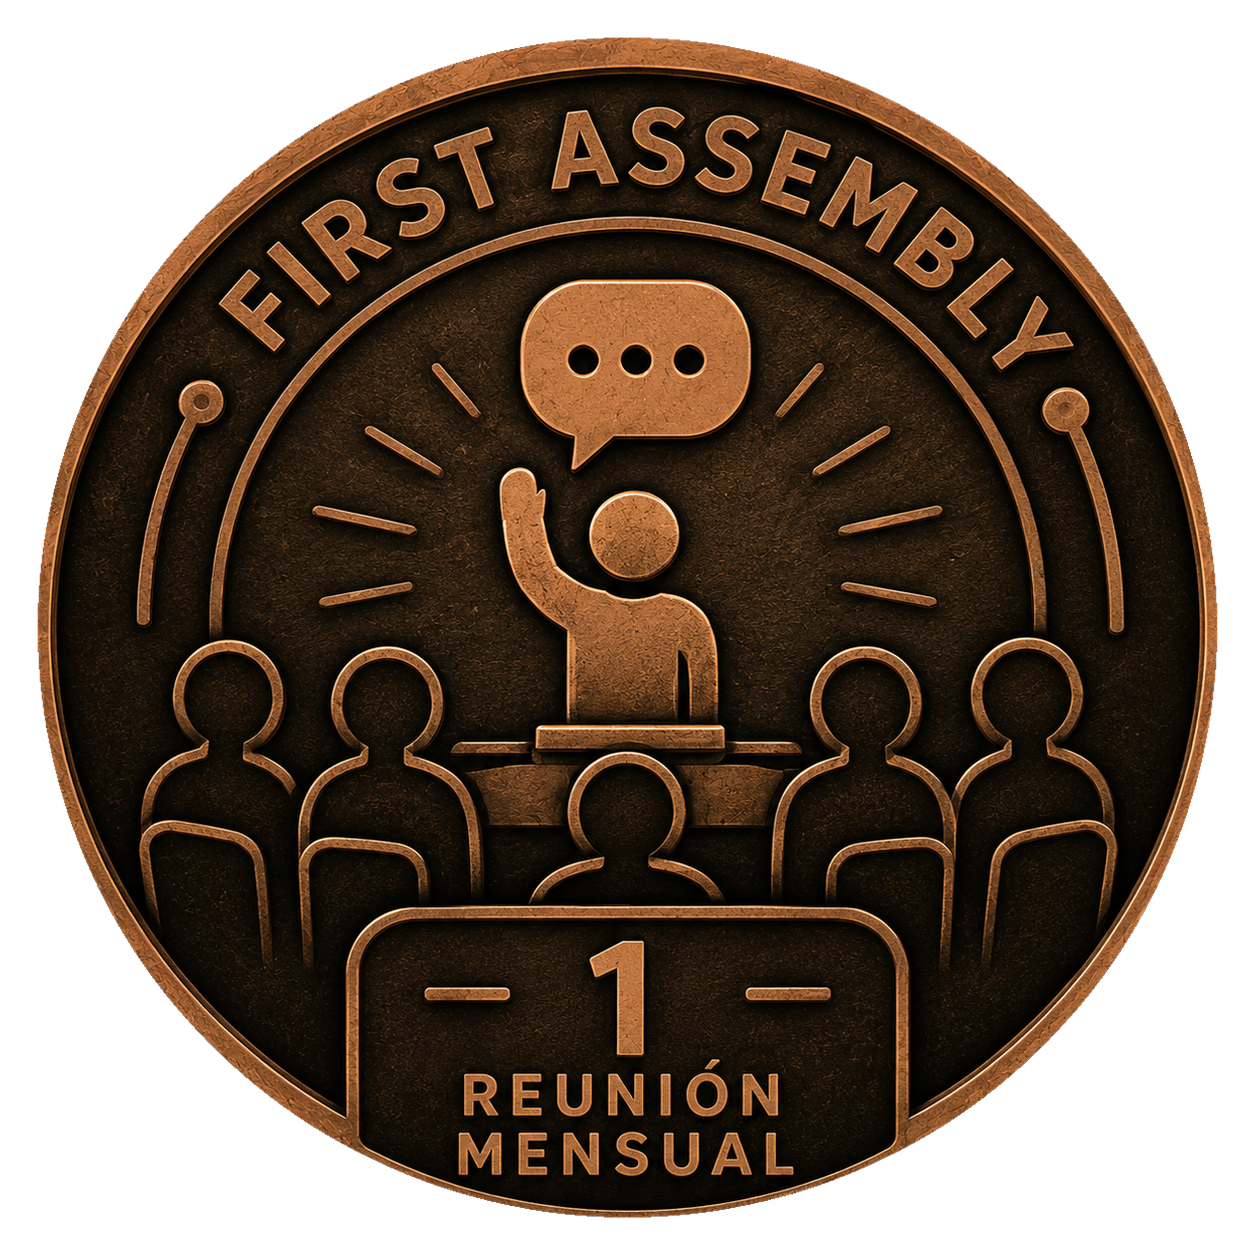
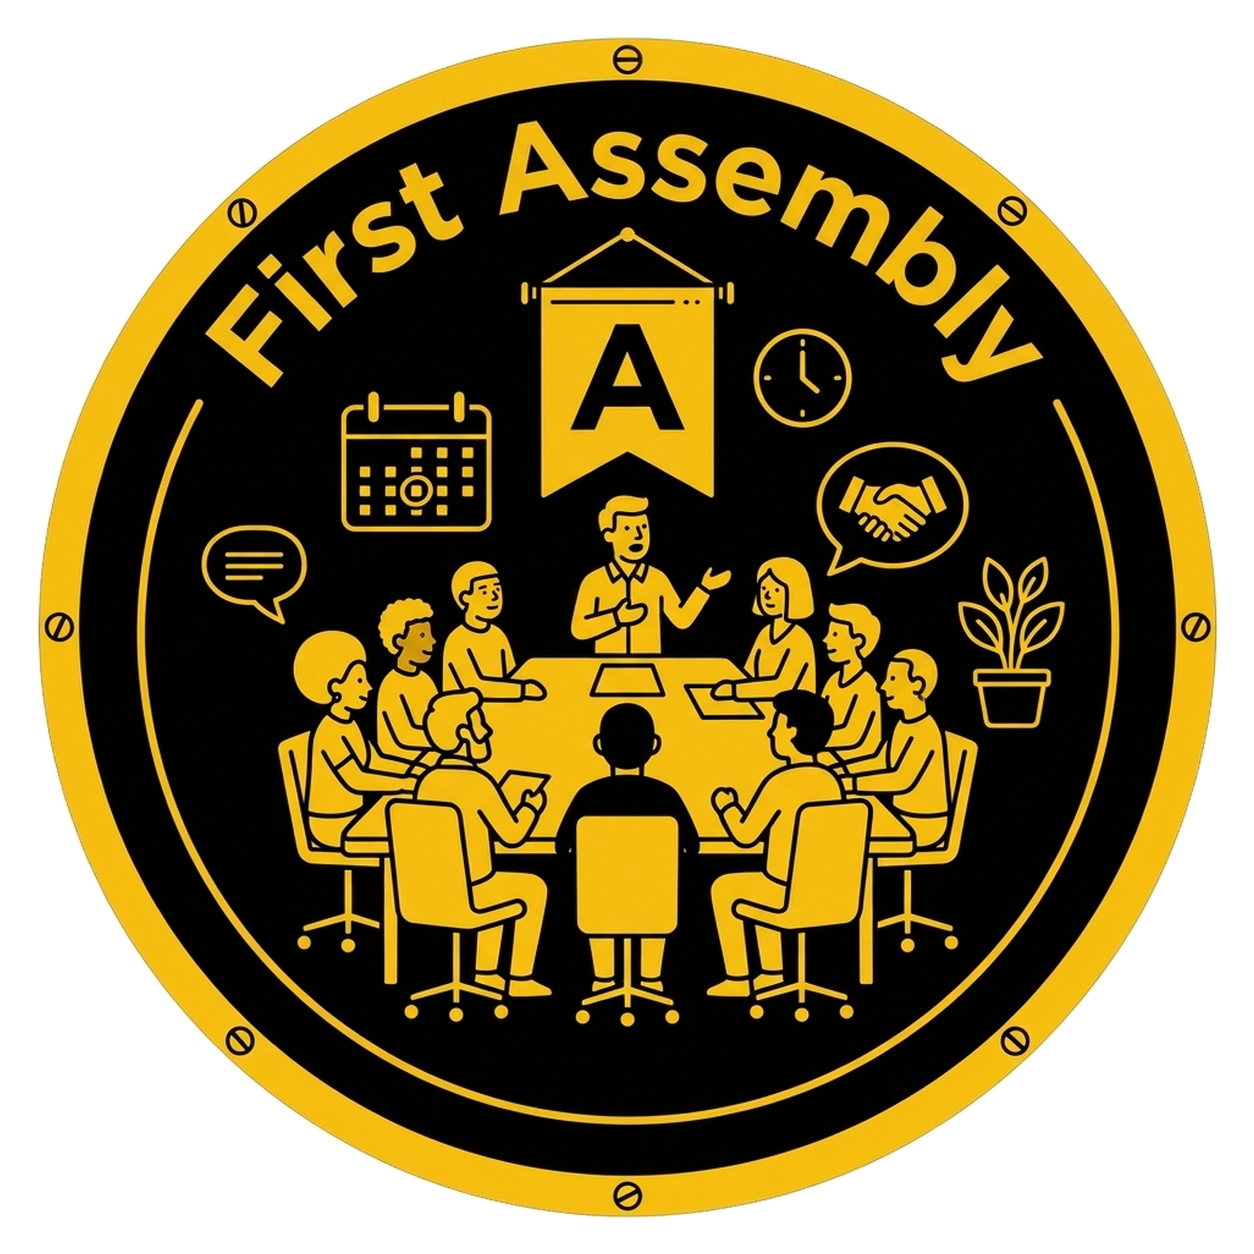
feat: imágenes promocionadas del 11-jul (eventos primer-paso/embajador, show-and-tell) + first-assembly retocada + regen docs

diff --git a/README.md b/README.md
@@ -21,7 +21,7 @@ URL base del catálogo en el portal: `https://cdn.jsdelivr.net/gh/makespacemadri
 <!-- badgegen:tables:start -->
 ## Catálogo de badges
 
-_Generado por `badgegen docs` desde `badges.yaml` (82 badges activos, 22 sin imagen)._
+_Generado por `badgegen docs` desde `badges.yaml` (82 badges activos, 19 sin imagen)._
 
 ### Onboarding
 
@@ -79,7 +79,7 @@ _Generado por `badgegen docs` desde `badges.yaml` (82 badges activos, 22 sin ima
 | `badge-platform-maker` | Platform Builder | `badge-platform-maker.png` | ✅ |
 | `badge-procurer` | Procurer | `badge-procurer.png` | ✅ |
 | `badge-serial-spender` | Serial Spender | `badge-serial-spender.png` | ✅ |
-| `badge-show-and-tell` | Show & Tell | `badge-show-and-tell.png` | ❌ pendiente |
+| `badge-show-and-tell` | Show & Tell | `badge-show-and-tell.png` | ✅ |
 | `badge-spendzilla` | Spendzilla | `badge-spendzilla.png` | ✅ |
 
 ### Eventos
@@ -109,10 +109,10 @@ _Generado por `badgegen docs` desde `badges.yaml` (82 badges activos, 22 sin ima
 | `badge-marathon-member` | Marathon Member | `badge-marathon-member.png` | ❌ pendiente |
 | `badge-master-hacker` | Master Hacker | `badge-master-hacker.png` | ✅ |
 | `badge-space-regular` | Space Regular | `badge-space-regular.png` | ✅ |
-| `eventos-embajador` | Roadie | `badge-eventos-embajador.png` | ❌ pendiente |
+| `eventos-embajador` | Roadie | `badge-eventos-embajador.png` | ✅ |
 | `eventos-evangelista` | Headliner | `badge-eventos-evangelista.png` | ❌ pendiente |
 | `eventos-networker` | Tour Manager | `badge-eventos-networker.png` | ❌ pendiente |
-| `eventos-primer-paso` | Groupie | `badge-eventos-primer-paso.png` | ❌ pendiente |
+| `eventos-primer-paso` | Groupie | `badge-eventos-primer-paso.png` | ✅ |
 
 ### Membresía
 

diff --git a/missing-images.md b/missing-images.md
@@ -1,15 +1,9 @@
 # Badges sin imagen — pendientes de generar
 
 <!-- badgegen:tables:start -->
-Badges sin imagen o marcados para regenerar (22). Convención: `badge-<slug>.png`.
+Badges sin imagen o marcados para regenerar (19). Convención: `badge-<slug>.png`.
 
 Tras subir una imagen, purga la caché de jsDelivr: `https://purge.jsdelivr.net/gh/makespacemadrid/open-badges@main/<filename>`.
-
-## Comunidad
-
-| Slug | Nombre | Archivo | Estado |
-|------|--------|---------|--------|
-| `badge-show-and-tell` | Show & Tell | `badge-show-and-tell.png` | ❌ pendiente |
 
 ## Eventos
 
@@ -19,10 +13,8 @@ Tras subir una imagen, purga la caché de jsDelivr: `https://purge.jsdelivr.net/
 | `badge-eternal-council` | Eternal Council | `badge-eternal-council.png` | ❌ pendiente |
 | `badge-hackspace-immortal` | Hackspace Immortal | `badge-hackspace-immortal.png` | ❌ pendiente |
 | `badge-marathon-member` | Marathon Member | `badge-marathon-member.png` | ❌ pendiente |
-| `eventos-embajador` | Roadie | `badge-eventos-embajador.png` | ❌ pendiente |
 | `eventos-evangelista` | Headliner | `badge-eventos-evangelista.png` | ❌ pendiente |
 | `eventos-networker` | Tour Manager | `badge-eventos-networker.png` | ❌ pendiente |
-| `eventos-primer-paso` | Groupie | `badge-eventos-primer-paso.png` | ❌ pendiente |
 
 ## Membresía
 
